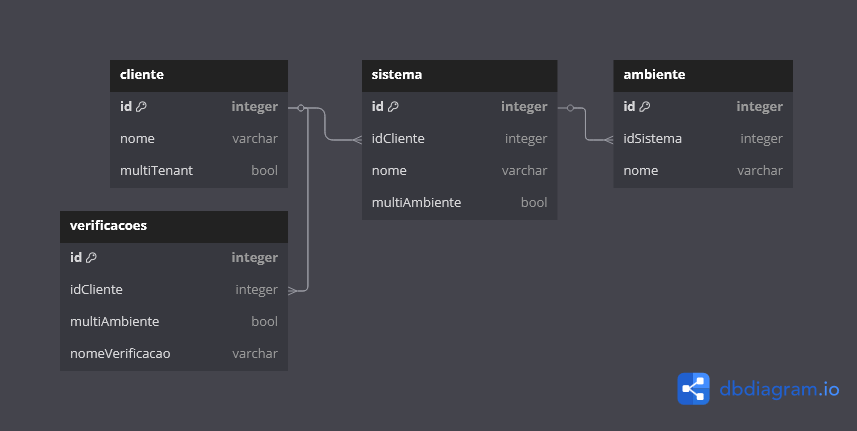
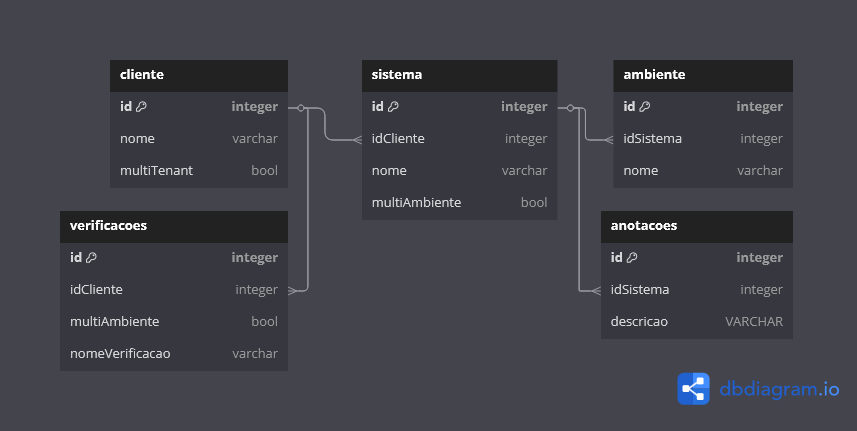
Mudança do visual das anotações + atualização do diagrama dbml

diff --git a/css/uploadPDF.css b/css/uploadPDF.css
@@ -110,7 +110,7 @@ Arquivo .css para definição da página de upload de evidências
     top: 140px;
     width: 250px;
     padding: 20px;
-    background: #ffee64;
+    background: #c2c1d0;
     border: 1px solid #00000042;
     box-shadow: 2px 2px 10px rgba(0, 0, 0, 0.2);
     transition: top 0.5s ease-out;
@@ -132,7 +132,7 @@ Arquivo .css para definição da página de upload de evidências
     right: 0;
     width: 36px;
     height: 32px;
-    background: linear-gradient(225deg, yellow 40%, #d4ad00 60%);
+    background: linear-gradient(225deg, #ebeaf2 40%, #8d8c99 60%);
     clip-path: polygon(0% 0%, 100% 100%, 0% 100%);
     box-shadow: -2px -2px 5px rgba(0, 0, 0, 0.2);
 }
